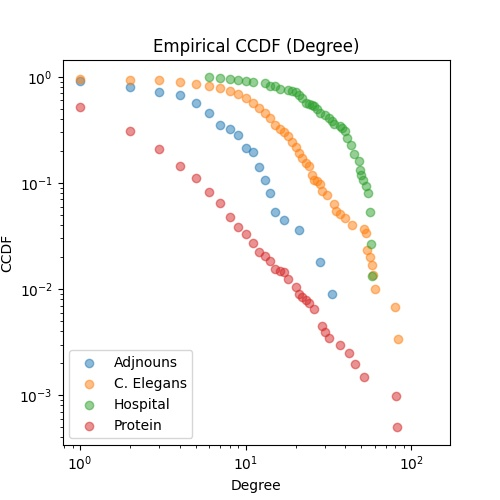
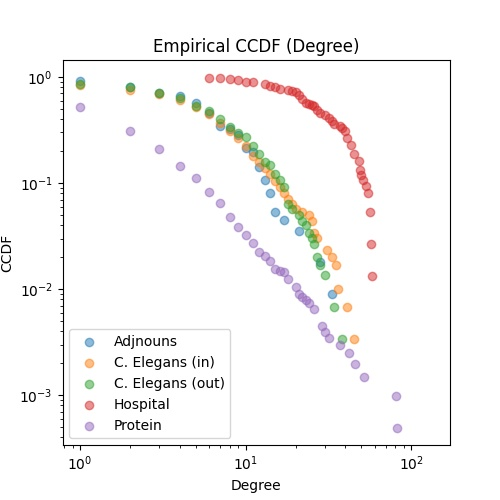
graphs

diff --git a/t1/print_graphs.py b/t1/print_graphs.py
@@ -7,8 +7,11 @@ def main():
     adj_g_pdf = np.loadtxt('data/adjnouns-degree-pdf.txt', delimiter=',')
     adj_g_x = np.loadtxt('data/adjnouns-degree-x.txt', delimiter=',')
 
-    cel_g_pdf = np.loadtxt('data/celegans-degree-pdf.txt', delimiter=',')
-    cel_g_x = np.loadtxt('data/celegans-degree-x.txt', delimiter=',')
+    cel_g_pdf_in = np.loadtxt('data/celegans-in-degree-pdf.txt', delimiter=',')
+    cel_g_x_in = np.loadtxt('data/celegans-in-degree-x.txt', delimiter=',')
+
+    cel_g_pdf_out = np.loadtxt('data/celegans-out-degree-pdf.txt', delimiter=',')
+    cel_g_x_out = np.loadtxt('data/celegans-out-degree-x.txt', delimiter=',')
 
     hos_g_pdf = np.loadtxt('data/hospital-degree-pdf.txt', delimiter=',')
     hos_g_x = np.loadtxt('data/hospital-degree-x.txt', delimiter=',')
@@ -20,8 +23,10 @@ def main():
     plt.title('Empirical PDF (Degree)')
     plt.plot(adj_g_x, adj_g_pdf, alpha=0.5, label='Adjnouns')
     plt.scatter(adj_g_x, adj_g_pdf, alpha=0.5)
-    plt.plot(cel_g_x, cel_g_pdf, alpha=0.5, label='C. Elegans')
-    plt.scatter(cel_g_x, cel_g_pdf, alpha=0.5)
+    plt.plot(cel_g_x_in, cel_g_pdf_in, alpha=0.5, label='C. Elegans (in)')
+    plt.scatter(cel_g_x_in, cel_g_pdf_in, alpha=0.5)
+    plt.plot(cel_g_x_out, cel_g_pdf_out, alpha=0.5, label='C. Elegans (out)')
+    plt.scatter(cel_g_x_out, cel_g_pdf_out, alpha=0.5)
     plt.plot(hos_g_x, hos_g_pdf, alpha=0.5, label='Hospital')
     plt.scatter(hos_g_x, hos_g_pdf, alpha=0.5)
     plt.plot(pro_g_x, pro_g_pdf, alpha=0.5, label='Protein')
@@ -64,7 +69,9 @@ def main():
     # Degree - CCDF
     adj_g_ccdf = np.loadtxt('data/adjnouns-degree-ccdf.txt', delimiter=',')
 
-    cel_g_ccdf = np.loadtxt('data/celegans-degree-ccdf.txt', delimiter=',')
+    cel_g_ccdf_in = np.loadtxt('data/celegans-in-degree-ccdf.txt', delimiter=',')
+
+    cel_g_ccdf_out = np.loadtxt('data/celegans-out-degree-ccdf.txt', delimiter=',')
 
     hos_g_ccdf = np.loadtxt('data/hospital-degree-ccdf.txt', delimiter=',')
 
@@ -75,7 +82,8 @@ def main():
     #plt.plot(adj_g_x, adj_g_ccdf, alpha=0.5, label='Adjnouns')
     plt.scatter(adj_g_x, adj_g_ccdf, alpha=0.5, label='Adjnouns')
     #plt.plot(cel_g_x, cel_g_ccdf, alpha=0.5, label='C. Elegans')
-    plt.scatter(cel_g_x, cel_g_ccdf, alpha=0.5, label='C. Elegans')
+    plt.scatter(cel_g_x_in, cel_g_ccdf_in, alpha=0.5, label='C. Elegans (in)')
+    plt.scatter(cel_g_x_out, cel_g_ccdf_out, alpha=0.5, label='C. Elegans (out)')
     #plt.plot(hos_g_x, hos_g_ccdf, alpha=0.5, label='Hospital')
     plt.scatter(hos_g_x, hos_g_ccdf, alpha=0.5, label='Hospital')
     #plt.plot(pro_g_x, pro_g_ccdf, alpha=0.5, label='Protein')
